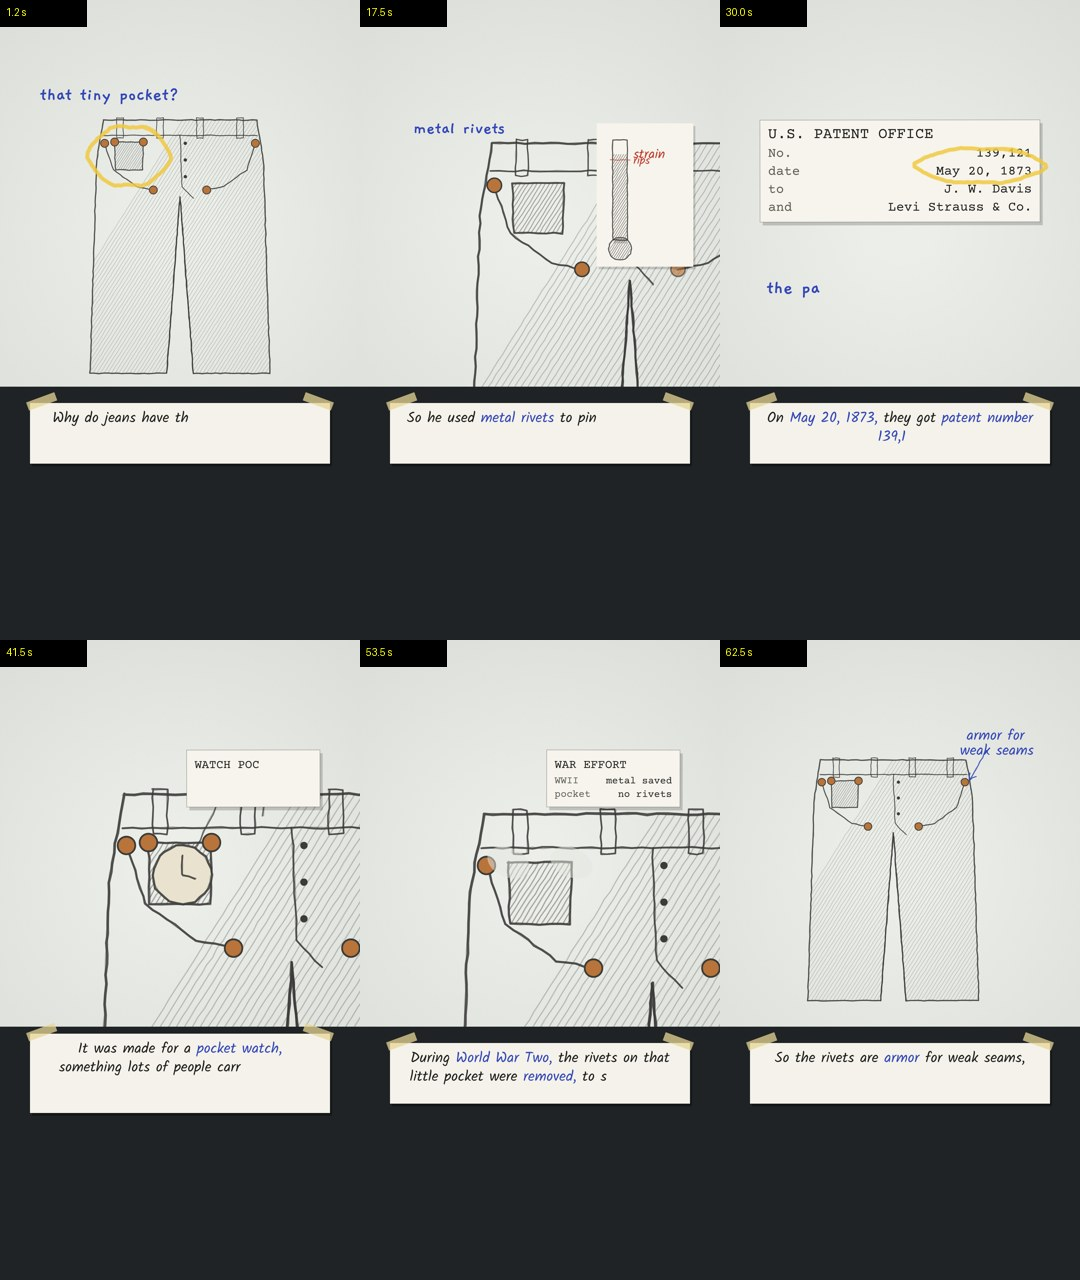
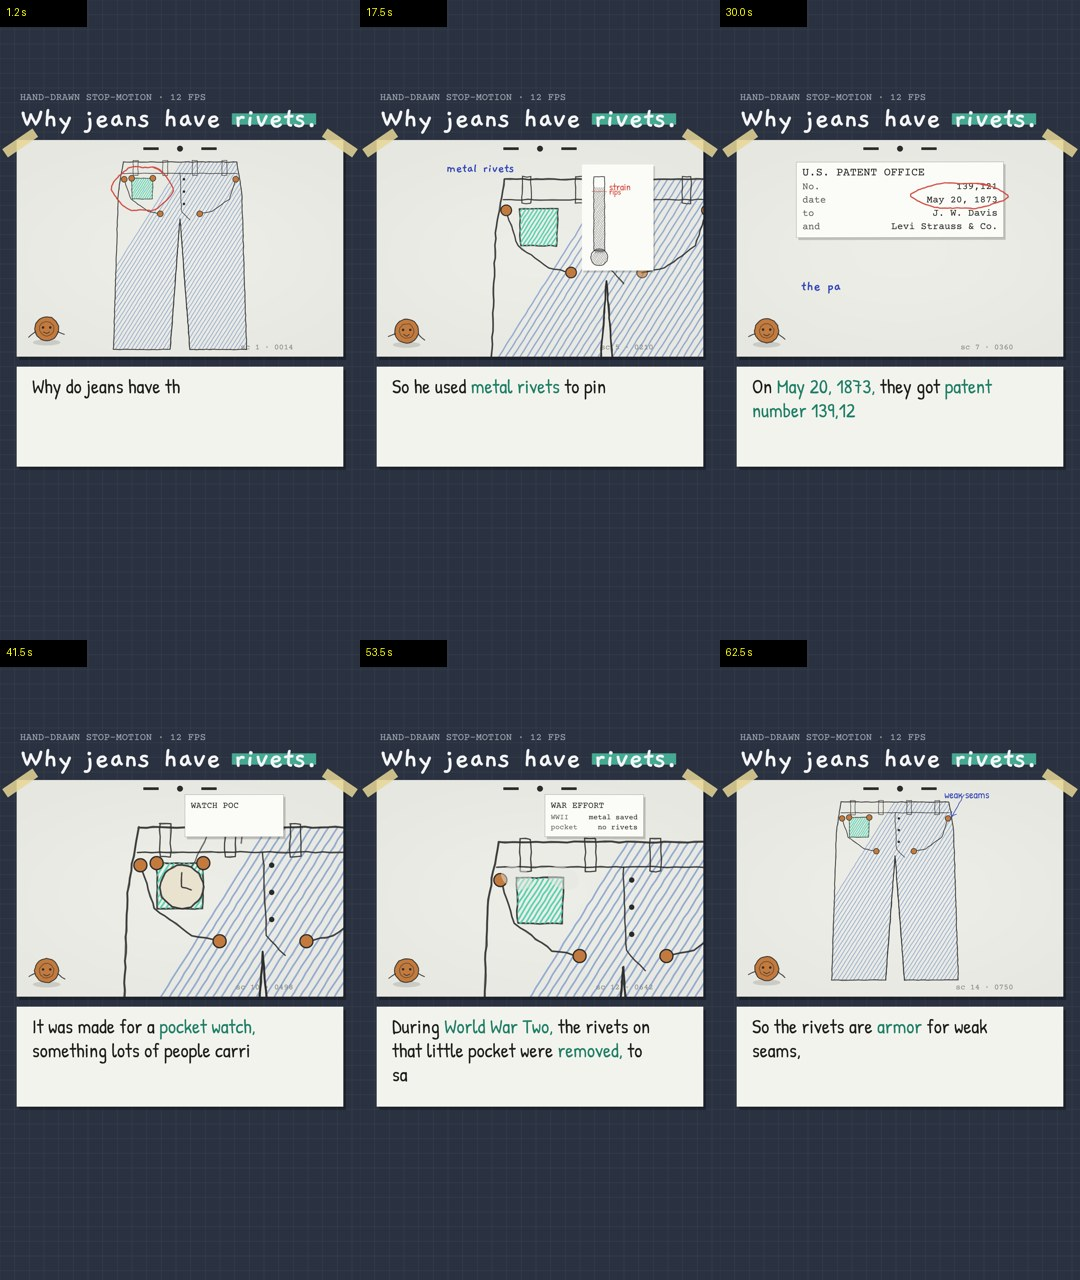
bluejeans EP 76: re-templated to #24 stop-motion explainer (main-session note: #22 ledger used by moonday EP 72); new storyboard
Claude-Session: https://claude.ai/code/session_01BPYB3p1FWoUGpnGH5tCKNK

diff --git a/reels/t_bluejeans.js b/reels/t_bluejeans.js
@@ -1,14 +1,14 @@
-// t_bluejeans.js: "Why do jeans have that tiny pocket and those rivets?" in template #22 paper stop-motion ledger (demo t22: "a stop-motion in graphite, 12 frames a second").
-// Grammar kept from the demo: pale grey paper with a soft vignette, graphite pencil line work and hatching that boil on 12 fps, typed paper slips with drop
-// shadows and typewriter text, dashed grouping boxes, blue ballpoint notes, one red warning note, a yellow marker ring for the thing to look at, a pencil
-// gauge (the demo's thermometer becomes a STRAIN gauge), and the caption as a taped paper slip on a dark band that types on.
-// Batch N: drawings and slips inside y 250-1130, the caption slip at y 1190-1400 on the dark band, nothing written right of x 900 below y 840.
-await Promise.all(['400 40px CourierPrime', '400 40px Kalam', '700 40px Gaegu'].map(f => document.fonts.load(f)));
+// t_bluejeans.js: "Why do jeans have that tiny pocket and those rivets?" in template #24 stop-motion explainer (demo t24 "Hi, I'm Lotus.": hand-drawn stop-motion, 12 fps).
+// Grammar kept from the demo: a navy grid page with a small mono header and a big hand-lettered title with one highlighted word, a taped paper board with
+// binder holes and a scene counter, pen line drawings that boil on 12 fps with hatched accent fills, small labelled boxes and arrows, a red ring for the thing to
+// look at, a little mascot in the board's corner (a copper rivet), and a big cream caption card whose text types on.
+// Batch N: header y 270-390, board y 420-1070, caption card y 1100-1410, nothing written right of x 900 below y 840.
+await Promise.all(['400 40px CourierPrime', '400 40px Kalam', '700 40px Gaegu', '400 40px PatrickHand'].map(f => document.fonts.load(f)));
 const W = 1080, H = 1920, cv = document.getElementById('c'); cv.width = W; cv.height = H; const g = cv.getContext('2d');
 const TL = window.TL, PH = TL.p, s = i => PH[i].start, r = (i, d) => s(i) + d, TOT = TL.total;
 const clamp = (x, a = 0, b = 1) => Math.max(a, Math.min(b, x)), lerp = (a, b, u) => a + (b - a) * u, seg = (t, a, b) => clamp((t - a) / (b - a)), ss = u => { u = clamp(u); return u * u * (3 - 2 * u); };
 const hash = n => { const x = Math.sin(n * 127.1 + 311.7) * 43758.5453; return x - Math.floor(x); };
-const GR = '#3b3b39', BLUE = '#3346b8', RED = '#c0392b', YEL = 'rgba(240,200,60,.75)', SLIP = '#f6f4ec', COPPER = '#b8743a';
+const GR = '#2b2b2b', BLUE = '#3346b8', RED = '#d0453a', YEL = 'rgba(208,69,58,.9)', SLIP = '#fbfbf7', COPPER = '#c27a3e', MINT = '#4fd1ae', DENIM = '#5b7fc4', NAVY = '#2a3140';
 let TQ = 0, BOIL = 0;   // stop motion: the whole frame is drawn at 12 fps
 
 // ---------- paper + pencil ----------
@@ -25,10 +25,10 @@ const line = (x0, y0, x1, y1, o) => pencil([[x0, y0], [x1, y1]], o);
 const box = (x, y, w, h, o = {}) => pencil([[x, y], [x + w, y], [x + w, y + h], [x, y + h], [x, y]], o);
 const ell = (cx, cy, rx, ry, n = 28) => Array.from({ length: n + 1 }, (_, i) => [cx + Math.cos(i / n * 6.2832) * rx, cy + Math.sin(i / n * 6.2832) * ry]);
 function dashed(x, y, w, h, o = {}) { const P = [[x, y], [x + w, y], [x + w, y + h], [x, y + h], [x, y]]; for (let i = 0; i < 4; i++) { const [a0, a1] = [P[i], P[i + 1]], L = Math.hypot(a1[0] - a0[0], a1[1] - a0[1]), n = Math.floor(L / 22); for (let k = 0; k < n; k += 2) line(lerp(a0[0], a1[0], k / n), lerp(a0[1], a1[1], k / n), lerp(a0[0], a1[0], (k + 1) / n), lerp(a0[1], a1[1], (k + 1) / n), { w: 2, a: .6, seed: i * 50 + k, ...o }); } }
-function hatch(poly, { sp = 10, ang = .9, a = .45, seed = 1 } = {}) { g.save(); g.beginPath(); poly.forEach(([x, y], i) => i ? g.lineTo(x, y) : g.moveTo(x, y)); g.closePath(); g.clip(); const xs = poly.map(p => p[0]), ys = poly.map(p => p[1]), x0 = Math.min(...xs) - 200, x1 = Math.max(...xs) + 200, y0 = Math.min(...ys), y1 = Math.max(...ys);
-  for (let x = x0; x < x1; x += sp) line(x, y1, x + (y1 - y0) * Math.tan(ang) * .5, y0, { w: 1.6, a, seed: seed + x, wob: .8 }); g.restore(); }
-function hand(txt, x, y, { size = 48, col = BLUE, align = 'left', reveal = 1, font = 'Kalam', weight = 400, rot = 0 } = {}) { if (reveal <= 0) return; g.save(); g.translate(x, y); g.rotate(rot); g.font = `${weight} ${size}px ${font}`; g.fillStyle = col; g.textAlign = align; g.textBaseline = 'alphabetic'; g.fillText(txt.slice(0, Math.ceil(txt.length * clamp(reveal))), 0, 0); g.restore(); }
-function ring(cx, cy, rx, ry, k, seed = 1) { if (k <= 0) return; const P = Array.from({ length: 41 }, (_, i) => { const a = -1.2 + i / 40 * 6.6; return [cx + Math.cos(a) * rx * (1 + .05 * Math.sin(i)), cy + Math.sin(a) * ry * (1 + .05 * Math.cos(i * 1.3))]; }); pencil(P, { w: 12, col: YEL, a: 1, prog: k, seed, wob: 1.5 }); }
+function hatch(poly, { sp = 10, ang = .9, a = .45, seed = 1, col = GR } = {}) { g.save(); g.beginPath(); poly.forEach(([x, y], i) => i ? g.lineTo(x, y) : g.moveTo(x, y)); g.closePath(); g.clip(); const xs = poly.map(p => p[0]), ys = poly.map(p => p[1]), x0 = Math.min(...xs) - 200, x1 = Math.max(...xs) + 200, y0 = Math.min(...ys), y1 = Math.max(...ys);
+  for (let x = x0; x < x1; x += sp) line(x, y1, x + (y1 - y0) * Math.tan(ang) * .5, y0, { w: col === GR ? 1.6 : 3.2, a, seed: seed + x, wob: .8, col }); g.restore(); }
+function hand(txt, x, y, { size = 48, col = BLUE, align = 'left', reveal = 1, font = 'PatrickHand', weight = 400, rot = 0 } = {}) { if (reveal <= 0) return; g.save(); g.translate(x, y); g.rotate(rot); g.font = `${weight} ${size}px ${font}`; g.fillStyle = col; g.textAlign = align; g.textBaseline = 'alphabetic'; g.fillText(txt.slice(0, Math.ceil(txt.length * clamp(reveal))), 0, 0); g.restore(); }
+function ring(cx, cy, rx, ry, k, seed = 1) { if (k <= 0) return; const P = Array.from({ length: 41 }, (_, i) => { const a = -1.2 + i / 40 * 6.6; return [cx + Math.cos(a) * rx * (1 + .05 * Math.sin(i)), cy + Math.sin(a) * ry * (1 + .05 * Math.cos(i * 1.3))]; }); pencil(P, { w: 5, col: YEL, a: 1, prog: k, seed, wob: 1.5 }); }
 function arrow(x0, y0, x1, y1, o = {}) { line(x0, y0, x1, y1, o); const a = Math.atan2(y1 - y0, x1 - x0); for (const d of [-.5, .5]) line(x1, y1, x1 - Math.cos(a + d) * 22, y1 - Math.sin(a + d) * 22, o); }
 // a typed paper slip: cream card + shadow, typewriter rows (label left, value right), types on with k
 function slip(x, y, w, rows, { k = 1, title = '', rot = 0, size = 34 } = {}) { if (k <= 0) return; const h = (title ? 70 : 30) + rows.length * (size * 1.35) + 20;
@@ -44,12 +44,12 @@ function slip(x, y, w, rows, { k = 1, title = '', rot = 0, size = 34 } = {}) { i
 // x, y = waistband centre; sc scale. o: pocketRing, rivets (0..1), rivetErase, watch, labels
 function jeans(t, x, y, sc, o = {}) { const T = (px, py) => [x + px * sc, y + py * sc], P = pts => pts.map(([a, b]) => T(a, b)), k = o.k ?? 1;
   const out = P([[-230, 0], [230, 0], [250, 120], [270, 760], [40, 760], [0, 230], [-40, 760], [-270, 760], [-250, 120], [-230, 0]]);
-  hatch(out, { sp: 11, a: .22, seed: 11 }); pencil(out, { w: 3.6, prog: k, seed: 12 });
+  hatch(out, { sp: 16, a: .5, seed: 11, col: DENIM }); pencil(out, { w: 3.6, prog: k, seed: 12 });
   pencil(P([[-232, 46], [232, 46]]), { w: 2.6, prog: k, seed: 13 }); for (const bx of [-180, -60, 60, 180]) box(...T(bx - 10, -6), 20 * sc, 60 * sc, { w: 2.2, seed: 14 + bx, prog: k });
   pencil(P([[0, 46], [6, 200], [40, 236]]), { w: 2.4, prog: k, seed: 15 }); [70, 120, 170].forEach((yy, i) => { g.save(); g.fillStyle = GR; g.beginPath(); g.arc(...T(16, yy), 5 * sc, 0, 7); g.fill(); g.restore(); });
   // front pockets (curved openings) + the watch pocket inside the wearer's right (viewer's left)
   pencil(P([[-226, 70], [-200, 150], [-130, 200], [-80, 210]]), { w: 3, prog: k, seed: 16 }); pencil(P([[226, 70], [200, 150], [130, 200], [80, 210]]), { w: 3, prog: k, seed: 17 });
-  const wp = P([[-196, 66], [-110, 66], [-112, 150], [-194, 150], [-196, 66]]); pencil(wp, { w: 3, prog: k, seed: 18 }); hatch(wp, { sp: 7, a: .35, seed: 19 });
+  const wp = P([[-196, 66], [-110, 66], [-112, 150], [-194, 150], [-196, 66]]); pencil(wp, { w: 3, prog: k, seed: 18 }); hatch(wp, { sp: 9, a: .9, seed: 19, col: MINT });
   pencil(P([[-40, 760], [0, 230], [40, 760]]), { w: 2.6, prog: k, seed: 20 });
   // rivets at the points of strain (pocket corners + watch pocket corners)
   const RV = [[-226, 70], [-80, 210], [226, 70], [80, 210], [-196, 66], [-110, 66]];
@@ -103,23 +103,36 @@ const BEATS = [
   t => { const t0 = s(15) - .2; hand('Follow for more of', 540, 640, { size: 74, col: GR, font: 'Gaegu', weight: 700, align: 'center', reveal: seg(t, t0 + .1, t0 + .8) }); hand('how it really works.', 540, 740, { size: 84, col: BLUE, font: 'Gaegu', weight: 700, align: 'center', reveal: seg(t, t0 + .5, t0 + 1.3) });
     line(320, 770, 760, 764, { w: 3, col: BLUE, prog: seg(t, t0 + 1.0, t0 + 1.4), seed: 150 }); slip(250, 820, 580, [['', "a new 'wait, really?'"], ['', 'every day'], ['', '@howitreallyworkstudio']], { k: seg(t, t0 + 1.2, t0 + 2.0), size: 32 }); jeans(t, 540, 360 - 150, .3, {}); },
 ];
-// caption: a taped paper slip on the dark band, typed on (the demo's subtitle)
-function caption(t) { const ph = PH.findLast(p => t >= p.start - .1); if (!ph || ph.i === PH.length - 1) return; const k = seg(t, ph.start - .1, ph.end - .2);
-  const txt = ph.cap.replace(/\*\*/g, ''), bold = []; let inB = false, idx = 0; ph.cap.split('**').forEach((pc, i) => { for (const ch of pc) bold[idx++] = i % 2 === 1; });
-  g.save(); g.font = '400 44px Kalam'; const words = txt.split(' '), lines = [[]]; let cw = 0; words.forEach(w => { const m = g.measureText(w + ' ').width; if (cw + m > 820 && lines.at(-1).length) { lines.push([]); cw = 0; } lines.at(-1).push(w); cw += m; });
-  const x0 = 90, w = 900, h = 70 + lines.length * 56, y0 = 1300 - h / 2; g.fillStyle = 'rgba(0,0,0,.35)'; g.fillRect(x0 + 6, y0 + 8, w, h); g.fillStyle = '#f4f2ea'; g.fillRect(x0, y0, w, h);
-  g.fillStyle = 'rgba(232,214,150,.75)'; g.save(); g.translate(x0 + 30, y0 - 4); g.rotate(-.35); g.fillRect(-40, -12, 90, 26); g.restore(); g.save(); g.translate(x0 + w - 30, y0 - 4); g.rotate(.35); g.fillRect(-50, -12, 90, 26); g.restore();
+// the page: navy grid, mono header + hand-lettered title, the taped board with binder holes and a scene counter
+const BG = (() => { const c = document.createElement('canvas'); c.width = W; c.height = H; const p = c.getContext('2d'); p.fillStyle = NAVY; p.fillRect(0, 0, W, H); p.strokeStyle = 'rgba(255,255,255,.05)'; p.lineWidth = 2; for (let x = 0; x < W; x += 44) { p.beginPath(); p.moveTo(x, 0); p.lineTo(x, H); p.stroke(); } for (let y = 0; y < H; y += 44) { p.beginPath(); p.moveTo(0, y); p.lineTo(W, y); p.stroke(); } return c; })();
+const BX = 50, BY = 420, BW = 980, BH = 650;
+function page(t, beat) { g.drawImage(BG, 0, 0); g.font = '400 30px CourierPrime'; g.fillStyle = 'rgba(220,226,235,.7)'; g.textAlign = 'left'; g.fillText('HAND-DRAWN STOP-MOTION · 12 FPS', 60, 300);
+  g.font = '700 92px Gaegu'; const t1 = 'Why jeans have ', t2 = 'rivets.', w1 = g.measureText(t1).width, w2 = g.measureText(t2).width; g.fillStyle = MINT; g.globalAlpha = .75; g.fillRect(60 + w1 - 6, 340, w2 + 4, 34); g.globalAlpha = 1; g.fillStyle = '#f3f4f6'; g.fillText(t1, 60, 380); g.fillText(t2, 60 + w1, 380);
+  g.fillStyle = 'rgba(0,0,0,.3)'; g.fillRect(BX + 8, BY + 10, BW, BH); g.drawImage(PAPER, 0, 0, W, H * BH / H * 2, BX, BY, BW, BH); g.fillStyle = 'rgba(236,236,230,.55)'; g.fillRect(BX, BY, BW, BH);
+  g.fillStyle = 'rgba(232,214,150,.85)'; [[BX + 10, BY + 8, -.6], [BX + BW - 10, BY + 8, .6]].forEach(([x, y, a]) => { g.save(); g.translate(x, y); g.rotate(a); g.fillRect(-55, -14, 110, 30); g.restore(); });
+  g.fillStyle = '#2b2b2b'; g.fillRect(W / 2 - 110, BY + 22, 46, 8); g.fillRect(W / 2 + 64, BY + 22, 46, 8); g.beginPath(); g.arc(W / 2, BY + 26, 9, 0, 7); g.fill();
+  g.font = '400 24px CourierPrime'; g.fillStyle = 'rgba(60,60,60,.6)'; g.textAlign = 'right'; g.fillText(`sc ${beat + 1} · ${String(Math.floor(t * 12)).padStart(4, '0')}`, 880, BY + BH - 22); g.textAlign = 'left'; }
+// the mascot: a little copper rivet with a face, bobbing in the board's corner
+function mascot(t, x, y, sc = 1) { const b = Math.sin(t * 4) * 4; g.save(); g.translate(x, y + b); g.scale(sc, sc); g.fillStyle = 'rgba(0,0,0,.12)'; g.beginPath(); g.ellipse(0, 46, 46, 10, 0, 0, 7); g.fill();
+  g.fillStyle = COPPER; g.beginPath(); g.arc(0, 0, 40, 0, 7); g.fill(); pencil(ell(0, 0, 40, 40), { w: 3, seed: 900 }); pencil(ell(0, 0, 24, 24), { w: 2, a: .6, seed: 901 });
+  g.fillStyle = GR; [[-12, -4], [12, -4]].forEach(([dx, dy]) => { g.beginPath(); g.arc(dx, dy, 4, 0, 7); g.fill(); }); pencil([[-10, 12], [0, 17], [10, 12]], { w: 2.4, seed: 902 });
+  pencil([[-38, 10], [-60, 24 + Math.sin(t * 6) * 6]], { w: 3, seed: 903 }); pencil([[38, 10], [60, 24 - Math.sin(t * 6) * 6]], { w: 3, seed: 904 }); g.restore(); }
+// caption: the big cream card under the board, typed on
+function caption(t) { const ph = PH.findLast(p => t >= p.start - .1); if (!ph || ph.i === PH.length - 1) return; const k = seg(t, ph.start - .1, ph.end - .3);
+  const txt = ph.cap.replace(/\*\*/g, ''), bold = []; let idx = 0; ph.cap.split('**').forEach((pc, i) => { for (const ch of pc) bold[idx++] = i % 2 === 1; });
+  g.save(); g.fillStyle = 'rgba(0,0,0,.3)'; g.fillRect(BX + 8, 1110, BW, 300); g.fillStyle = '#f3f3ee'; g.fillRect(BX, 1100, BW, 300);
+  g.font = '400 60px PatrickHand'; const words = txt.split(' '), lines = [[]]; let cw = 0; words.forEach(w => { const m = g.measureText(w + ' ').width; if (cw + m > 860 && lines.at(-1).length) { lines.push([]); cw = 0; } lines.at(-1).push(w); cw += m; });
   const shown = Math.ceil(txt.length * Math.min(1, k * 1.15)); let ci = 0; g.textBaseline = 'alphabetic';
-  lines.forEach((ln, li) => { const lw = g.measureText(ln.join(' ')).width; let x = 540 - lw / 2; ln.forEach(wd => { for (const ch of wd + ' ') { if (ci >= shown) return; g.fillStyle = bold[ci] ? BLUE : '#1e1e1c'; g.fillText(ch, x, y0 + 58 + li * 56); x += g.measureText(ch).width; ci++; } }); });
+  lines.forEach((ln, li) => { let x = BX + 46; ln.forEach(wd => { for (const ch of wd + ' ') { if (ci >= shown) return; g.fillStyle = bold[ci] ? '#1f7f66' : '#1e1e1c'; g.fillText(ch, x, 1180 + li * 72); x += g.measureText(ch).width; ci++; } }); });
   g.restore(); }
 function scene(t) { TQ = Math.floor(t * 12 + 1e-6) / 12; BOIL = Math.round(TQ * 12); t = TQ;
-  g.setTransform(1, 0, 0, 1, 0, 0); g.drawImage(PAPER, 0, 0); g.fillStyle = '#1f2326'; g.fillRect(0, 1160, W, H - 1160);
-  let i = 0; for (let k = 0; k < PH.length; k++) if (t >= s(k) - .25) i = k; i = Math.min(i, BEATS.length - 1);
-  g.save(); g.beginPath(); g.rect(0, 0, W, 1160); g.clip(); BEATS[i](t); g.restore(); caption(t); }
+  g.setTransform(1, 0, 0, 1, 0, 0); let i = 0; for (let k = 0; k < PH.length; k++) if (t >= s(k) - .25) i = k; i = Math.min(i, BEATS.length - 1);
+  page(t, i); g.save(); g.beginPath(); g.rect(BX, BY + 40, BW, BH - 40); g.clip(); g.translate(540, 745); g.scale(.74, .74); g.translate(-540, -710); BEATS[i](t); g.restore();
+  if (i < BEATS.length - 1) mascot(t, BX + 90, BY + BH - 80, .9); caption(t); }
 window.DUR = TOT;
 // loop: the last 0.5 s blends 30% of frame 0 back in
 window.seek = t => { scene(t); const lp = seg(t, TOT - .5, TOT); if (lp > 0) { const keep = g.getImageData(0, 0, W, H); scene(0); const f0 = g.getImageData(0, 0, W, H); const kk = .3 * ss(lp), A = keep.data, B = f0.data; for (let i = 0; i < A.length; i += 4) { A[i] += (B[i] - A[i]) * kk; A[i + 1] += (B[i + 1] - A[i + 1]) * kk; A[i + 2] += (B[i + 2] - A[i + 2]) * kk; } g.putImageData(keep, 0, 0); } };
 window.render = window.seek;
-window.thumb = () => { BOIL = 3; g.setTransform(1, 0, 0, 1, 0, 0); g.drawImage(PAPER, 0, 0); const j = jeans(3, 540, 560, 1.05, {}); ring(j.wp[0], j.wp[1], 130, 96, 1, 1); j.rv.slice(0, 4).forEach((p, i) => arrow(p[0] + (i % 2 ? 70 : -70), p[1] - 80, p[0] + (i % 2 ? 16 : -16), p[1] - 14, { w: 3, col: RED, seed: 40 + i }));
-  hand('why the tiny pocket?', 90, 420, { size: 82, col: BLUE, font: 'Gaegu', weight: 700 }); hand('(and the rivets)', 220, 500, { size: 56, col: RED }); };
+window.thumb = () => { BOIL = 3; g.setTransform(1, 0, 0, 1, 0, 0); page(3, 0); g.save(); g.translate(540, 760); g.scale(.82, .82); g.translate(-540, -700); const j = jeans(3, 540, 380, 1.05, {}); ring(j.wp[0], j.wp[1], 130, 96, 1, 1); j.rv.slice(0, 4).forEach((p, i) => arrow(p[0] + (i % 2 ? 70 : -70), p[1] - 80, p[0] + (i % 2 ? 16 : -16), p[1] - 14, { w: 3, col: RED, seed: 40 + i })); g.restore(); mascot(3, BX + 90, BY + BH - 80, .9);
+  g.fillStyle = '#f3f3ee'; g.fillRect(BX, 1100, BW, 300); g.font = '400 76px PatrickHand'; g.fillStyle = '#1e1e1c'; g.fillText('That tiny pocket', BX + 46, 1200); g.fillStyle = '#1f7f66'; g.fillText('had a job.', BX + 46, 1290); };
 window.seek(0); window.ready = true; window.READY = true;

diff --git a/reels/t_bluejeans.html b/reels/t_bluejeans.html
@@ -3,8 +3,9 @@
 <style>
 @font-face{font-family:'CourierPrime';src:url(styles/fieldbook/fonts/CourierPrime-Regular.ttf)}
 @font-face{font-family:'Kalam';src:url(styles/fieldbook/fonts/Kalam-Regular.ttf)}
+@font-face{font-family:'PatrickHand';src:url(styles/crayon/fonts/PatrickHand-Regular.ttf)}
 @font-face{font-family:'Gaegu';src:url(styles/aidoom/fonts/Gaegu-Bold.ttf);font-weight:700}
-html,body{margin:0;width:540px;height:960px;overflow:hidden;background:#1f2326}canvas{display:block;width:540px;height:960px}
+html,body{margin:0;width:540px;height:960px;overflow:hidden;background:#2a3140}canvas{display:block;width:540px;height:960px}
 </style></head>
 <body><canvas id="c"></canvas>
 <script src="tl_bluejeans.js"></script>

diff --git a/jobs/bluejeans/hooks_bluejeans.md b/jobs/bluejeans/hooks_bluejeans.md
@@ -1,6 +1,6 @@
 # bluejeans: opening lines (pick marked ★)
 
-1. ★ "Why do jeans have that tiny pocket, and those little rivets?" (11 words, the search question). Frame 0: a graphite drawing of a pair of waist overalls on pale ledger paper, the tiny pocket already ringed in yellow marker and "that tiny pocket?" written in blue ballpoint. Red arrows then point at each copper rivet ("rivets?"). At the but-turn (4.4 s, "But they weren't made for style. They were made for work.") a typed PURPOSE slip strikes "style" in red and ticks "work".
+1. ★ "Why do jeans have that tiny pocket, and those little rivets?" (11 words, the search question). Frame 0: a graphite drawing of a pair of waist overalls on the taped explainer board under the title "Why jeans have rivets.", the tiny pocket already ringed in red with mint hatching, "that tiny pocket?" written in blue and the little copper-rivet mascot bobbing in the corner. Red arrows then point at each copper rivet ("rivets?"). At the but-turn (4.4 s, "But they weren't made for style. They were made for work.") a PURPOSE label box strikes "style" in red and ticks "work".
 2. "That tiny pocket on your jeans has a job." (9 words). Intriguing, but it skips the rivets half of the question.
 3. "Your jeans are patented." (4 words). Strong, but it gives away the patent re-hook at 26 s.
 
